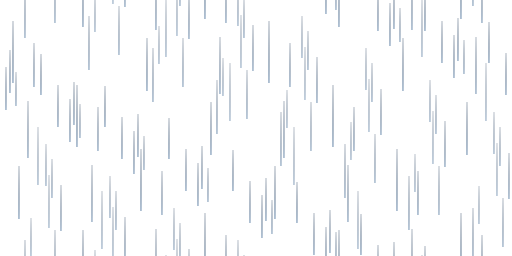
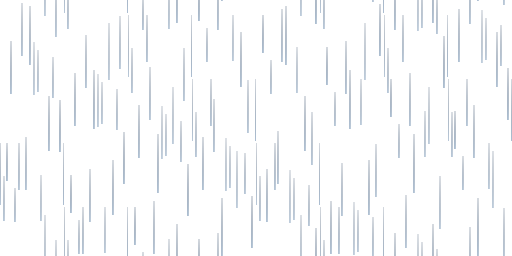
LLM-970: guaranteed rain spacing, a stronger --check, exact wrap tests
From code_review on #1427:
- weather.py deals rain columns from even shares of the tile with bounded
  jitter, so every two streak starts are at least 3 columns apart across
  the wrap too; it raises if a layer cannot fit. --check now asserts that
  spacing, that frame 8 paints exactly frame 0 for every falling sheet,
  that a wrapping canvas lands writes past each edge on the far edge, that
  the shipped rain has a streak crossing the tile border, the on-disk
  sizes, and the splash's bottom edge.
- storm_fx_test pins the exact drift wrap at the half scale (including a
  step that a stale 32 px modulus gets wrong), the 0.75 threshold, and
  the whole sheet sizes; rain_splashes_test the splash sheet sizes.

Changed region(s): [[0.0, 0.0, 1.0, 1.0]]

diff --git a/tools/tree-art/weather.py b/tools/tree-art/weather.py
@@ -106,37 +106,60 @@ RAIN = {
 }
 
 
-def paint_rain(kind, seed):
+# A streak is two columns wide, and two streaks of a layer never share or
+# touch a column (that reads as a seam when the tile repeats), so their start
+# columns are at least this far apart, across the tile's wrap too.
+RAIN_MIN_GAP = 3
+
+
+def rain_columns(n, W, rnd):
+    """n start columns, every two at least RAIN_MIN_GAP apart around the
+    circle of W columns. Column i sits at its even share i*W/n plus a jitter
+    of at most (W//n - RAIN_MIN_GAP), so any neighbour gap — the last-to-first
+    one across the wrap included — is at least W//n minus that jitter."""
+    if n * RAIN_MIN_GAP > W:
+        raise ValueError(f"{n} streaks do not fit {W} columns {RAIN_MIN_GAP} apart")
+    jitter = W // n - RAIN_MIN_GAP
+    offset = rnd.randrange(W)
+    return [(i * W // n + rnd.randint(0, jitter) + offset) % W for i in range(n)]
+
+
+def circular_gaps(columns, W):
+    cols = sorted(columns)
+    return [(cols[(i + 1) % len(cols)] - cols[i]) % W for i in range(len(cols))]
+
+
+def rain_drops(kind, seed):
     spec = RAIN[kind]
     rnd = random.Random(seed)
     W, H = TILE
     drops = []
     for _ in range(spec["count"]):
         drops.append(dict(
-            x=rnd.randrange(W),
             y=rnd.uniform(0, H),
             # Tiles per loop: 1 tile = 32 px a frame, 2 = 64 px a frame.
             laps=2 if rnd.random() < spec["fast"] else 1,
             length=rnd.randint(*spec["length"]),
             alpha=rnd.randint(*spec["alpha"]),
         ))
-    # Keep the streaks of one layer from sitting in the same column, which
-    # reads as a seam when the tile repeats.
-    # A streak takes its column and the next; the column before is kept free
-    # too, so two streaks never touch. Give up after one pass of the tile,
-    # rather than loop forever, if a layer has more drops than room.
-    used = set()
-    for d in drops:
-        for _ in range(W):
-            if not {(d["x"] + dx) % W for dx in (-1, 0, 1)} & used:
-                break
-            d["x"] = (d["x"] + 1) % W
-        for dx in (-1, 0, 1):
-            used.add((d["x"] + dx) % W)
+    # Columns are dealt out shuffled, so a drop's speed and length have
+    # nothing to do with where it falls.
+    columns = rain_columns(len(drops), W, rnd)
+    rnd.shuffle(columns)
+    for d, x in zip(drops, columns):
+        d["x"] = x
+    return drops
 
+
+def rain_frames(kind, seed, frame_indices):
+    """The rain frames at the given indices. Index FRAMES is one whole loop
+    on from 0, which --check uses to prove the loop closes."""
+    spec = RAIN[kind]
+    W, H = TILE
+    drops = rain_drops(kind, seed)
     tail, head = rgb(spec["tail"]), rgb(spec["head"])
     frames = []
-    for f in range(FRAMES):
+    for f in frame_indices:
         c = Canvas(W, H, wrap=True)
         for d in drops:
             y_head = d["y"] + f * d["laps"] * H / FRAMES
@@ -150,7 +173,11 @@ def paint_rain(kind, seed):
                 c.put(d["x"], y, mix(col, head, 0.25), a)
                 c.put(d["x"] + 1, y, col, a * 0.85)
         frames.append(c.image())
-    return strip(frames)
+    return frames
+
+
+def paint_rain(kind, seed):
+    return strip(rain_frames(kind, seed, range(FRAMES)))
 
 
 # --- snow -------------------------------------------------------------------
@@ -195,7 +222,8 @@ def flake(c, x, y, size, alpha, tail=0):
         c.put(x + tx, y + ty, FLAKE_RIM, alpha * 0.55)
 
 
-def paint_snow(kind, seed):
+def snow_frames(kind, seed, frame_indices):
+    """The snow frames at the given indices; index FRAMES is one loop on."""
     spec = SNOW[kind]
     rnd = random.Random(seed)
     W, H = TILE
@@ -208,7 +236,7 @@ def paint_snow(kind, seed):
         tail=rnd.randrange(len(FLECK_TAILS)),
     ) for _ in range(spec["count"])]
     frames = []
-    for f in range(FRAMES):
+    for f in frame_indices:
         c = Canvas(W, H, wrap=True)
         for fl in flakes:
             # One tile down per loop; one full sway per loop. Both close at
@@ -217,7 +245,11 @@ def paint_snow(kind, seed):
             x = fl["x"] + fl["sway"] * math.sin(fl["phase"] + 2 * math.pi * f / FRAMES)
             flake(c, x, y, fl["size"], fl["alpha"], fl["tail"])
         frames.append(c.image())
-    return strip(frames)
+    return frames
+
+
+def paint_snow(kind, seed):
+    return strip(snow_frames(kind, seed, range(FRAMES)))
 
 
 # --- lightning --------------------------------------------------------------
@@ -402,12 +434,15 @@ def paint_snow_splash():
 
 # --- output -----------------------------------------------------------------
 
+SEEDS = {"rain-light": 9701, "rain-heavy": 9702, "snow-light": 9703, "snow-heavy": 9704}
+
+
 def paint_all():
     return {
-        "rain-light.png": paint_rain("light", 9701),
-        "rain-heavy.png": paint_rain("heavy", 9702),
-        "snow-light.png": paint_snow("light", 9703),
-        "snow-heavy.png": paint_snow("heavy", 9704),
+        "rain-light.png": paint_rain("light", SEEDS["rain-light"]),
+        "rain-heavy.png": paint_rain("heavy", SEEDS["rain-heavy"]),
+        "snow-light.png": paint_snow("light", SEEDS["snow-light"]),
+        "snow-heavy.png": paint_snow("heavy", SEEDS["snow-heavy"]),
         "lightning.png": paint_lightning(9705),
         "rain-splash.png": paint_rain_splash(),
         "snow-splash.png": paint_snow_splash(),
@@ -425,6 +460,59 @@ SIZES = {
 }
 
 
+def check_wrap_canvas():
+    """A wrapping canvas lands a write past any edge on the opposite edge,
+    which is what makes a streak or flake crossing the tile's border continue
+    on the far side of the next tile."""
+    ok = True
+    W, H = TILE
+    for (x, y), want in (((W, 5), (0, 5)), ((-1, 5), (W - 1, 5)),
+                         ((7, H), (7, 0)), ((7, -1), (7, H - 1)), ((-1, -1), (W - 1, H - 1))):
+        c = Canvas(W, H, wrap=True)
+        c.put(x, y, (255, 255, 255), 255)
+        if c.px[want[1]][want[0]][3] != 255:
+            print(f"wrap: a write at {(x, y)} did not land at {want}")
+            ok = False
+    return ok
+
+
+def check_loops():
+    """One whole loop on (frame FRAMES), every falling sheet must draw
+    exactly its frame 0: the motion closes, so the animation has no jump.
+    Also some rain frame must have a streak on both its top and its bottom
+    row (one streak crossing the border, drawn on both sides by the wrap),
+    so the shipped rain really exercises the wrap. Snow is not held to this:
+    a flake moves 32 px a frame and may never sit on the border in any frame;
+    check_wrap_canvas covers the wrap itself."""
+    ok = True
+    W, H = TILE
+    for kind in ("light", "heavy"):
+        for name, frames_of in (("rain", rain_frames), ("snow", snow_frames)):
+            seed = SEEDS[f"{name}-{kind}"]
+            frames = frames_of(kind, seed, list(range(FRAMES + 1)))
+            if frames[0].tobytes() != frames[FRAMES].tobytes():
+                print(f"{name}-{kind}: frame {FRAMES} is not frame 0 (the loop jumps)")
+                ok = False
+            if name == "rain" and not any(
+                    f.crop((0, 0, W, 1)).getbbox() and f.crop((0, H - 1, W, H)).getbbox()
+                    for f in frames[:FRAMES]):
+                print(f"{name}-{kind}: no frame has a shape crossing the tile's top/bottom edge")
+                ok = False
+    return ok
+
+
+def check_rain_spacing():
+    ok = True
+    W = TILE[0]
+    for kind in ("light", "heavy"):
+        cols = [d["x"] for d in rain_drops(kind, SEEDS[f"rain-{kind}"])]
+        gaps = circular_gaps(cols, W)
+        if len(set(cols)) != len(cols) or min(gaps) < RAIN_MIN_GAP:
+            print(f"rain-{kind}: streak columns closer than {RAIN_MIN_GAP} (gaps {sorted(gaps)})")
+            ok = False
+    return ok
+
+
 def check(images, out_dir):
     ok = True
     for name, im in images.items():
@@ -435,19 +523,26 @@ def check(images, out_dir):
         if not os.path.exists(on_disk):
             print(f"{name}: not written")
             ok = False
-        elif Image.open(on_disk).convert("RGBA").tobytes() != im.tobytes():
+            continue
+        disk = Image.open(on_disk).convert("RGBA")
+        if disk.size != SIZES[name]:
+            print(f"{name}: on disk {disk.size}, want {SIZES[name]}")
+            ok = False
+        elif disk.tobytes() != im.tobytes():
             print(f"{name}: differs from a fresh paint (run without --check)")
             ok = False
     # A splash or bolt touching its frame's edge would be cut off on screen.
+    # A bolt runs the full height on purpose; a splash must clear all four.
     for name in ("rain-splash.png", "snow-splash.png", "lightning.png"):
         im = images[name]
-        fw = SPLASH[0] if "splash" in name else BOLT[0]
+        splash = "splash" in name
+        fw = SPLASH[0] if splash else BOLT[0]
         for i in range(im.size[0] // fw):
             box = im.crop((i * fw, 0, (i + 1) * fw, im.size[1])).getbbox()
-            if box and (box[0] == 0 or box[2] == fw or (box[1] == 0 and "splash" in name)):
+            if box and (box[0] == 0 or box[2] == fw or (splash and (box[1] == 0 or box[3] == im.size[1]))):
                 print(f"{name}: frame {i} touches its edge {box}")
                 ok = False
-    return ok
+    return check_wrap_canvas() and check_loops() and check_rain_spacing() and ok
 
 
 def main():
